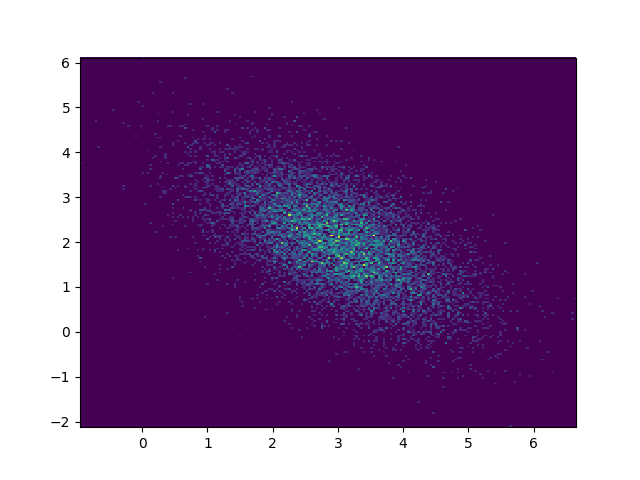
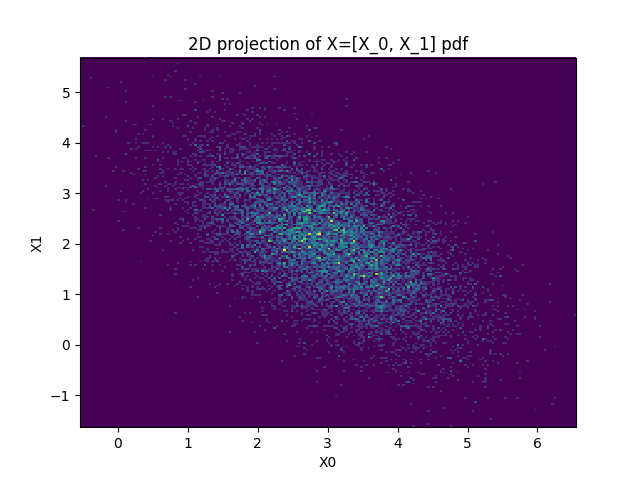
update images and remove unnecessary comment

diff --git a/variational_inference/gibbs_bivariant_normal.py b/variational_inference/gibbs_bivariant_normal.py
@@ -1,13 +1,7 @@
 import edward as ed
 import tensorflow as tf
-
 import matplotlib.pyplot as plt
-import numpy as np
 
-
-"""
-Inspired by https://wiseodd.github.io/techblog/2015/10/09/gibbs-sampling/
-"""
 
 sess = tf.Session()
 
@@ -18,6 +12,9 @@ mvn = ed.models.MultivariateNormalTriL(loc=mu, scale_tril=scale)
 
 data = mvn.sample(5000).eval(session=sess)
 plt.hist2d([x[0] for x in data], [x[1] for x in data], bins=100)
+plt.xlabel("X0")
+plt.ylabel("X1")
+plt.title("Distribution coming from Gibbs sampling.")
 plt.show()
 
 x0 = tf.placeholder(shape=[], dtype=tf.float32)
